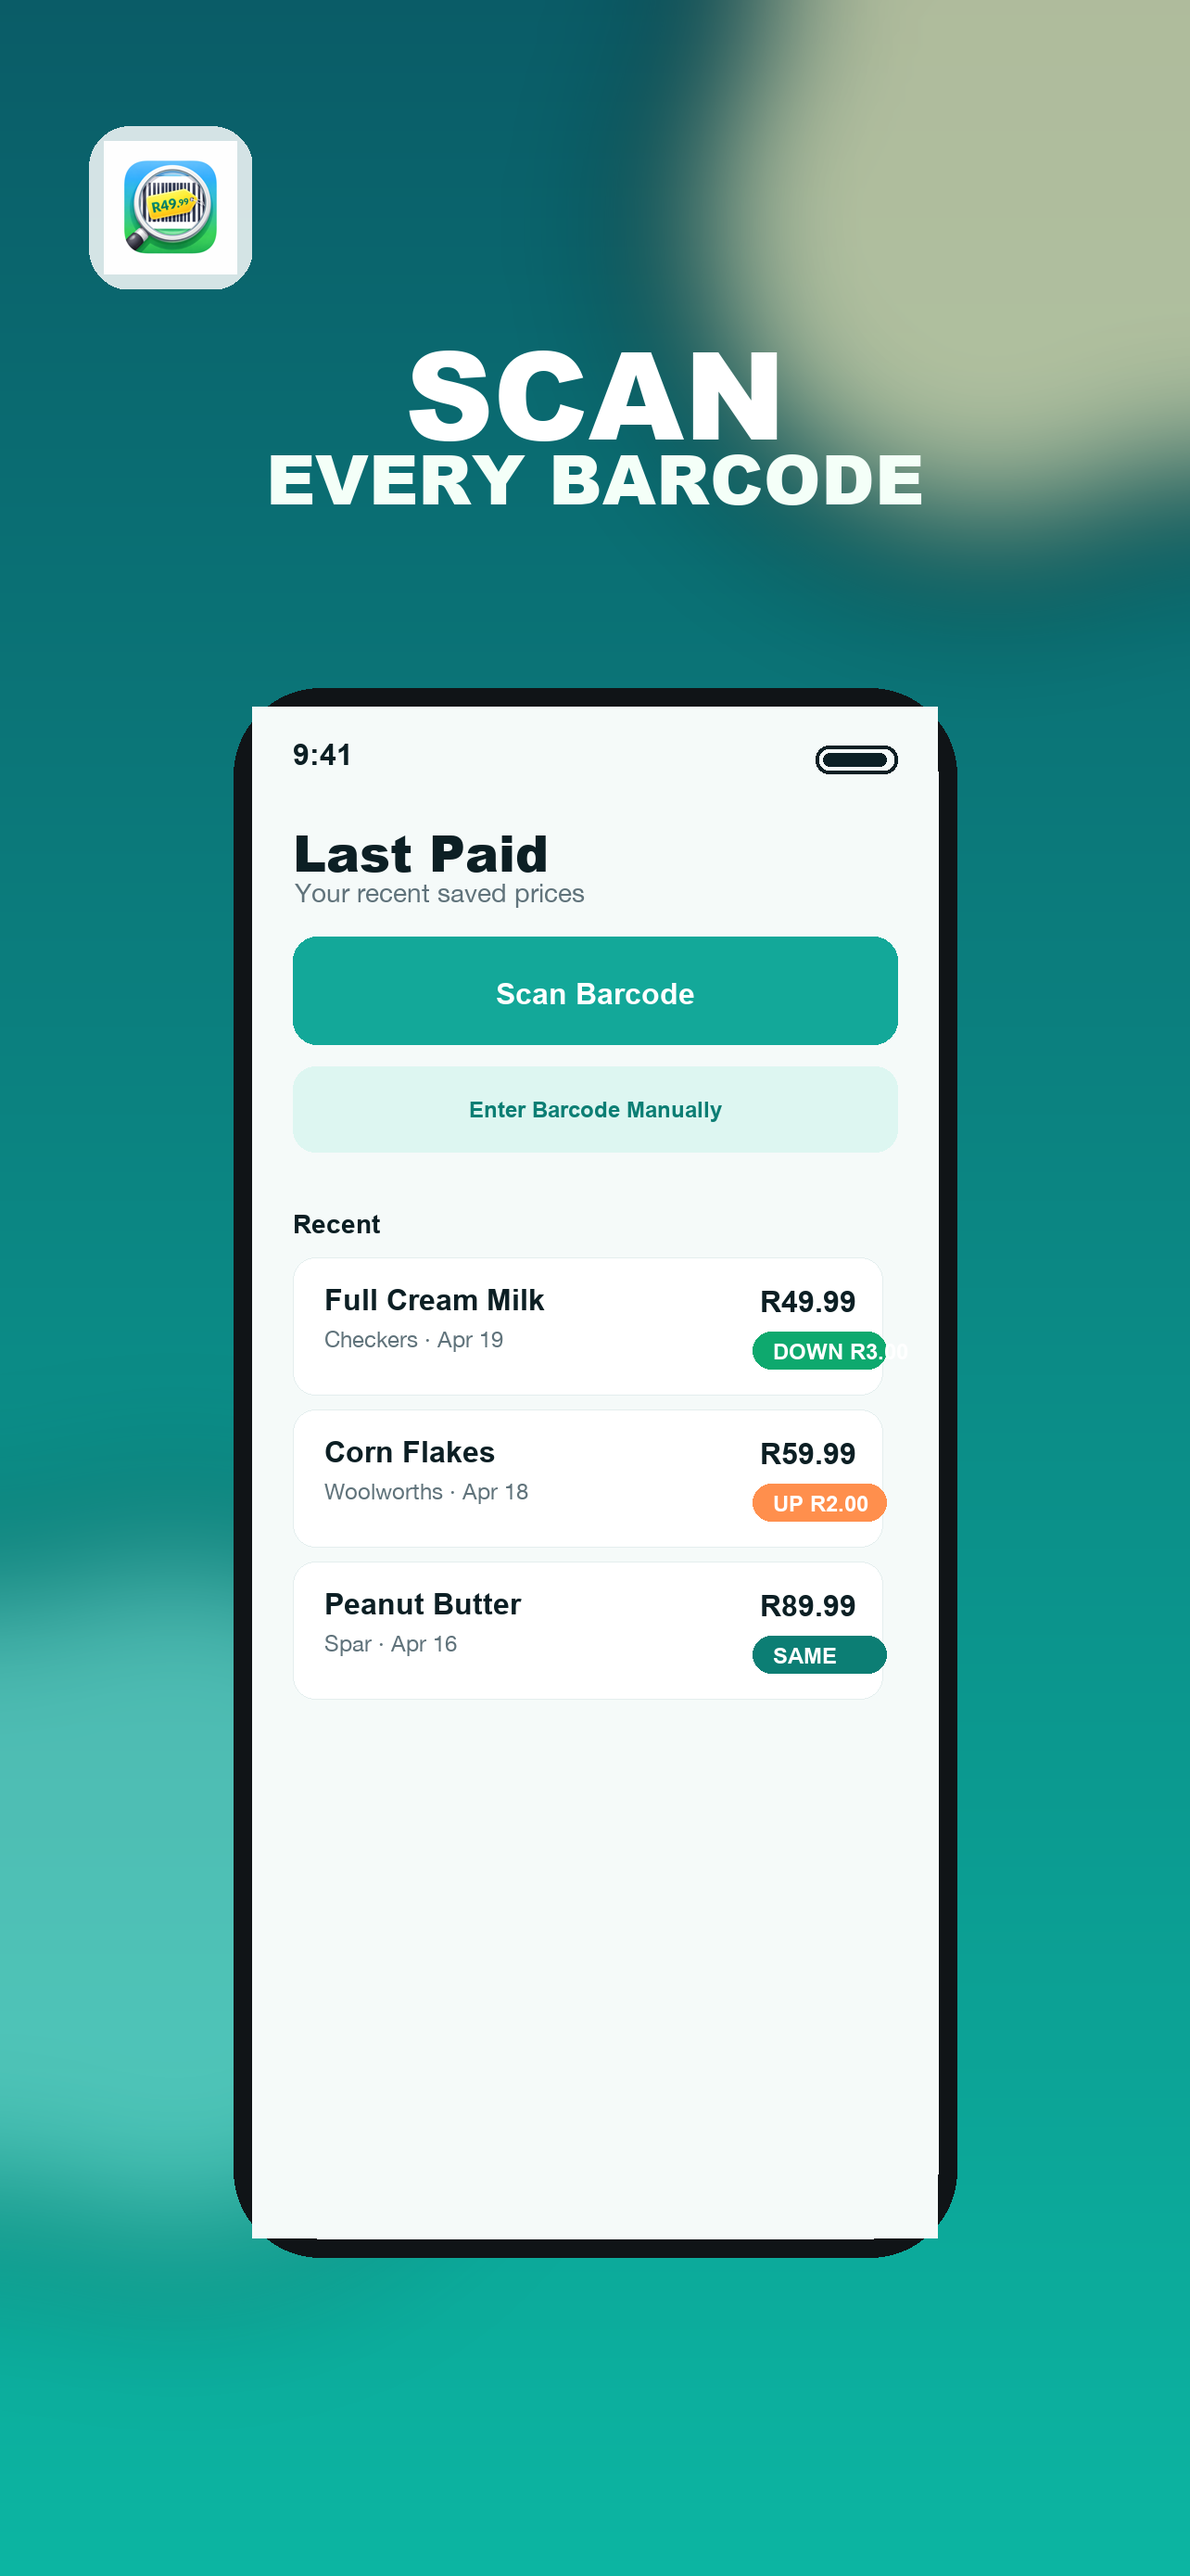
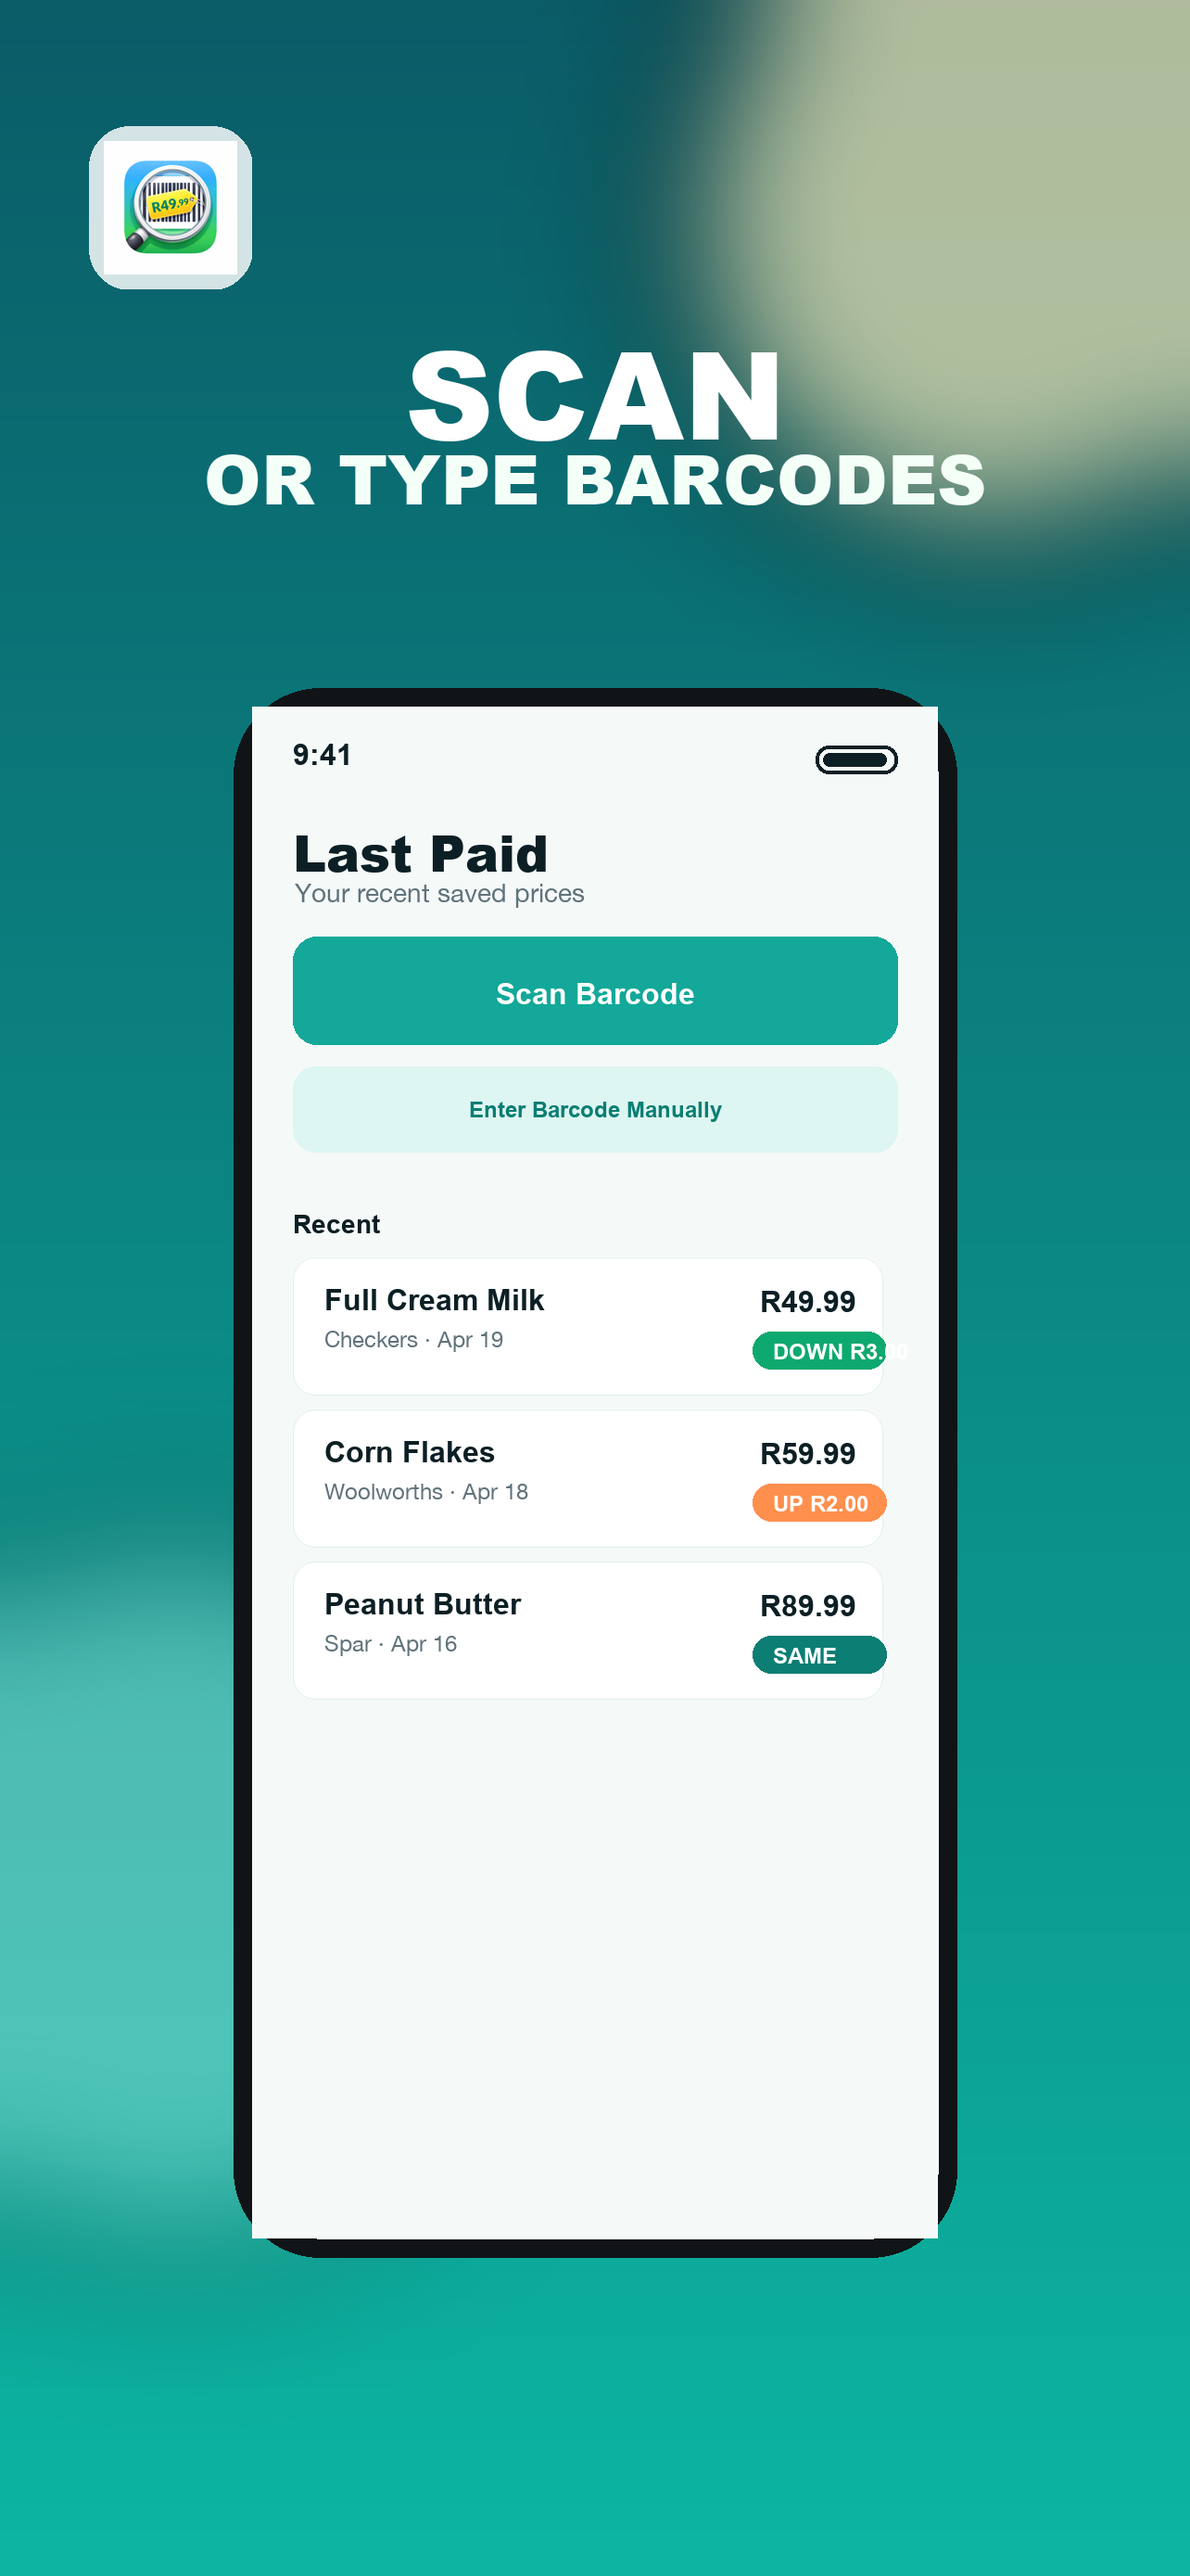
Align App Store screenshots with shipped flows

Changed region(s): [[0.2492, 0.1548, 0.8411, 0.2167], [0.1558, 0.1548, 0.2492, 0.2167]]

diff --git a/tools/generate_app_store_screenshots.py b/tools/generate_app_store_screenshots.py
@@ -38,10 +38,10 @@ class Slide:
 
 
 SLIDES = [
-    Slide("01-scan-every-barcode.png", "SCAN", "EVERY BARCODE", "home"),
+    Slide("01-scan-every-barcode.png", "SCAN", "OR TYPE BARCODES", "home"),
     Slide("02-save-what-you-paid.png", "SAVE", "WHAT YOU PAID", "capture"),
     Slide("03-check-the-last-price-fast.png", "CHECK", "THE LAST PRICE FAST", "detail"),
-    Slide("04-compare-stores-over-time.png", "COMPARE", "STORES OVER TIME", "history"),
+    Slide("04-compare-stores-over-time.png", "SEARCH", "SAVED PRICES FAST", "catalog"),
 ]
 
 
@@ -212,33 +212,25 @@ def draw_detail(screen: Image.Image) -> None:
     draw_list_row(draw, 1112, "Pick n Pay", "16 Mar · 2L carton", "R47.99", "OLDER", "#94AAA7")
 
 
-def draw_history(screen: Image.Image) -> None:
+def draw_catalog(screen: Image.Image) -> None:
     draw = ImageDraw.Draw(screen)
     draw_status_bar(draw, screen.width)
-    draw.text((44, 118), "Price History", font=TITLE_FONT, fill=INK)
-    draw.text((46, 184), "See which store was cheaper over time", font=BODY_FONT, fill=MUTED)
+    draw.text((44, 118), "Saved Items", font=TITLE_FONT, fill=INK)
+    draw.text((46, 184), "Search by product, barcode, or store", font=BODY_FONT, fill=MUTED)
 
-    draw_rounded(draw, (44, 260, 680, 680), 34, CARD_ALT)
-    draw.text((70, 302), "STORE COMPARISON", font=SMALL_BOLD, fill=ACCENT_DARK)
+    draw_rounded(draw, (44, 260, 680, 354), 28, CARD_ALT, outline="#DCE7E9")
+    draw.text((82, 292), "milk", font=BODY_FONT, fill=MUTED)
+    draw_secondary_button(draw, (508, 272, 680, 342), "Newest")
 
-    points = [(112, 604), (230, 514), (348, 562), (466, 428), (584, 486)]
-    draw.line(points, fill=ACCENT, width=10, joint="curve")
-    for px, py in points:
-        draw.ellipse((px - 14, py - 14, px + 14, py + 14), fill=CARD_ALT, outline=ACCENT, width=7)
-    for idx, label in enumerate(["Mar", "Apr", "May", "Jun", "Jul"]):
-        draw.text((88 + idx * 118, 622), label, font=SMALL_FONT, fill=MUTED)
+    draw.text((44, 414), "Results", font=SECTION_FONT, fill=INK)
+    draw_list_row(draw, 466, "Full Cream Milk", "Barcode 6001234567890", "R49.99", "1 ENTRY", ACCENT_DARK)
+    draw_list_row(draw, 630, "Long Life Milk", "Barcode 6000987654321", "R52.99", "2 ENTRIES", "#94AAA7")
+    draw_list_row(draw, 794, "Peanut Butter", "Checkers · latest store", "R89.99", "3 ENTRIES", "#94AAA7")
 
-    for idx, (store, price, note) in enumerate([
-        ("Checkers", "R49.99", "Lowest recent price"),
-        ("Woolworths", "R52.99", "Premium shelf price"),
-        ("Pick n Pay", "R47.99", "Best historical deal"),
-    ]):
-        top = 760 + idx * 168
-        draw_rounded(draw, (44, top, 680, top + 140), 26, CARD_ALT, outline="#E4EEEE")
-        draw.text((74, top + 26), store, font=BODY_BOLD, fill=INK)
-        draw.text((74, top + 76), note, font=SMALL_FONT, fill=MUTED)
-        price_bbox = draw.textbbox((0, 0), price, font=BODY_BOLD)
-        draw.text((640 - (price_bbox[2] - price_bbox[0]), top + 38), price, font=BODY_BOLD, fill=INK)
+    draw.text((44, 994), "Recent stores", font=SECTION_FONT, fill=INK)
+    draw_secondary_button(draw, (44, 1046, 248, 1116), "Checkers")
+    draw_secondary_button(draw, (264, 1046, 492, 1116), "Woolworths")
+    draw_secondary_button(draw, (508, 1046, 680, 1116), "Spar")
 
 
 def draw_brand_badge(canvas: Image.Image) -> None:
@@ -275,7 +267,7 @@ def make_slide(slide: Slide) -> Image.Image:
     elif slide.kind == "detail":
         draw_detail(screen)
     else:
-        draw_history(screen)
+        draw_catalog(screen)
     paste_screen(bg, screen, origin)
 
     return bg.convert("RGB")
